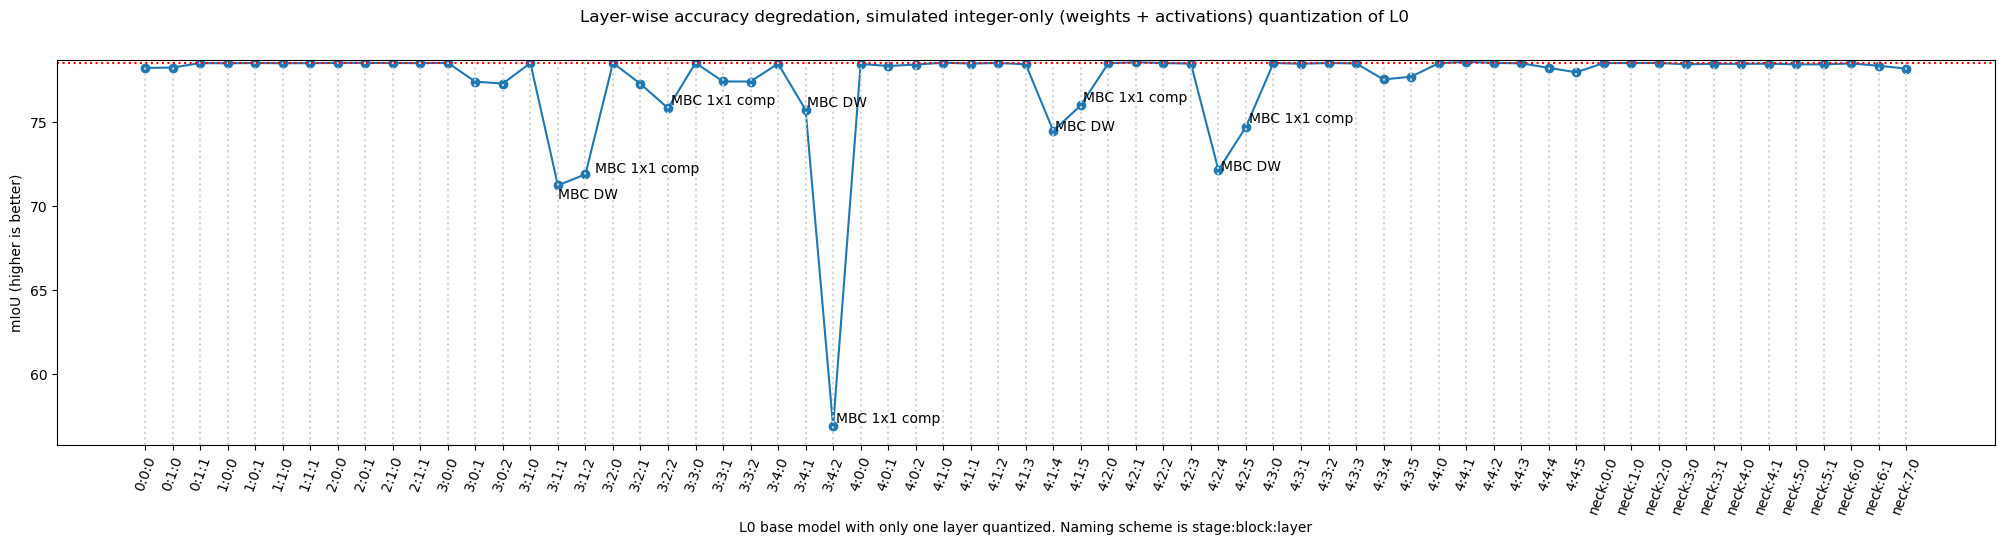
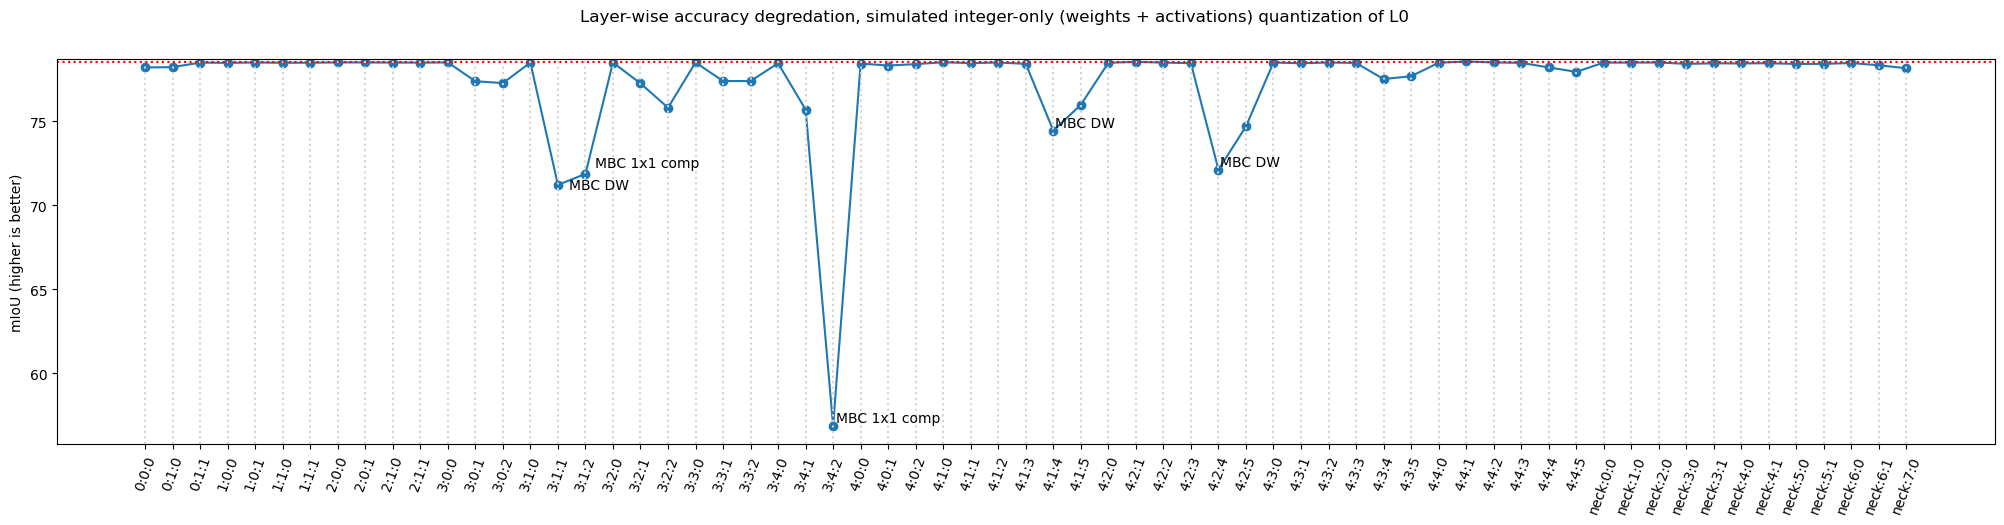
Built color-coded plots of layer-analysis

diff --git a/data_analytics_color.py b/data_analytics_color.py
@@ -4,9 +4,9 @@ import numpy as np
 import pickle
 import os
 import matplotlib.pyplot as plt
-from adjustText import adjust_text
-from configs.quant_backbones_zoo import REGISTERED_BACKBONE_DESCRIPTIONS_LARGE, REGISTERED_BACKBONE_DESCRIPTIONS_XL
-
+from configs.quant_backbones_zoo import REGISTERED_BACKBONE_DESCRIPTIONS_LARGE, REGISTERED_BACKBONE_DESCRIPTIONS_XL, REGISTERED_BACKBONE_COLORS
+import matplotlib.patches as mpatches
+import matplotlib.lines as mlines
 
 def read_pickle_to_dataframe(file_path, file_name) -> pd.DataFrame:
         file_name = os.path.basename(file_name)
@@ -32,63 +32,67 @@ def plot(df, title: str, xlabel: str, name: str, model: str = 'L0', prompt_type:
         description_dict = REGISTERED_BACKBONE_DESCRIPTIONS_XL
     else:
         description_dict = REGISTERED_BACKBONE_DESCRIPTIONS_LARGE
-
+    performance_measure = 'all'
     baseline_value=baselines_box[model]
-    zoom_lower_limit=77.1
+    upper_limit=85
+    zoom_lower_limit=76.9
     zoom_upper_limit = baseline_value + 0.2
-    #if zoom:
-    #    zoom_upper_limit = 80
-    #else:
-    #    zoom_upper_limit = baseline_value + 0.2
-    texts = []
-    
-    if prompt_type == 'box' or prompt_type == 'point':
-        performance_measure = 'all'
-    elif performance_measure == 'point_and_box':
-        raise KeyError("plot function that can plot both point and box in one call not yet implemented")
-    
-    fig, ax = plt.subplots(figsize=(25,5))
-    ax.plot(df['backbone_version'], df[performance_measure])
-    ax.scatter(df['backbone_version'], df[performance_measure])
+    fig, ax = plt.subplots(figsize=(25,4))
 
+    ax.plot(df['backbone_version'], df[performance_measure], color='slategrey')
 
-    if add_descriptions:
-        # Add description to each data point where 'all' score is substantially lower than baseline
-        for i, val in df.iterrows(): # index and row data
-            if zoom:
-                if val[performance_measure] < baseline_value-0.4: # L2: 0.3
-                    # using adjustText library to avoid overlapping text
-                    texts.append(ax.text(val['backbone_version'], val['adjusted_performance_measure'] - 0.1, f"{description_dict[val['backbone_version']]}"))
-            else:
-                if val[performance_measure] < baseline_value-4:
-                    #ax.text(val['backbone_version'], val[performance_measure], f"{description_dict[val['backbone_version']]}")
-                    texts.append(ax.text(val['backbone_version'], val[performance_measure] - 0.1, f"{description_dict[val['backbone_version']]}"))
-        adjust_text(texts)  # adjust text to minimize overlaps
+    for i, val in df.iterrows(): # index and row data
+        ax.scatter(
+                    val['backbone_version'], 
+                    val[performance_measure],
+                    color=REGISTERED_BACKBONE_COLORS.get(description_dict[val['backbone_version']], 'grey'),
+                    s=100)
+        # vertical lines at each x mark
+        ax.axvline(val['backbone_version'], color='lightgray', linestyle='dotted')
 
-        
-    # vertical lines at each x mark
-    for x in df['backbone_version']:
-        ax.axvline(x, color='lightgray', linestyle='dotted')
-    ax.axhline(baseline_value, color='red', linestyle='dotted')
-    #ax.text(0, baseline_value - 0.1 if zoom else baseline_value - 1, 'Baseline', va='top', ha="right")
+    ax.axhline(baseline_value, color='black', linestyle='dotted')
+    ax.axhline(zoom_lower_limit + 0.1, color='darkgreen', linestyle='dashdot')
 
-    if zoom: ax.set_xlabel(xlabel)
-    if not zoom: plt.suptitle(title)
-    ax.set_ylabel('mIoU (higher is better)')
+    if not zoom:
+        color_dict = {
+            'Attention' : 'darkturquoise',
+            'MBC' : 'orangered',
+            'Fused-MBC' : 'limegreen',
+            'ResBlock': 'fuchsia',
+            'Other': 'grey',
+        }
+
+        # Create a Line2D object for the black dotted line
+        baseline_line = mlines.Line2D([], [], color='black', linestyle='dotted', label='Baseline')
+        zoom_line = mlines.Line2D([], [], color='darkgreen', linestyle='dashdot', label='Zoom guideline')
+        legend_handles = [mpatches.Patch(color=color, label=label) for label, color in color_dict.items()]
+        legend_handles.append(baseline_line)
+        legend_handles.append(zoom_line)
+        ax.legend(handles=legend_handles, loc='lower right', fontsize=14)
+
+    if zoom: ax.set_xlabel(xlabel, fontsize=14)
+    if not zoom:
+        plt.suptitle(title, fontsize=14)
+
+    ax.tick_params(axis='x', labelsize=10) # to control size of x-ticks
+    ax.set_ylabel('mIoU (higher is better)', fontsize=14)
     if rotate:
-        plt.xticks(rotation=70)
+        plt.xticks(rotation=90)
     if zoom:
         ax.set_ylim([zoom_lower_limit,zoom_upper_limit])
-        save_name = f'./plots/graphs/{name}_zoom.png'
+        save_name = f'./plots/graphs/{name}_color_zoom.png'
     else:
         ax = plt.gca()  # get current axes
         ymin, _ = ax.get_ylim()  # get the current lower limit
-        ax.set_ylim(ymin, zoom_upper_limit)  # set the new upper limit
-        save_name = f'./plots/graphs/{name}.png'
+        ax.set_ylim(ymin, upper_limit)  # set the new upper limit
+        save_name = f'./plots/graphs/{name}_color.png'
+    
+    # get rid of the whitespace on either side
+    sorted_versions = sorted(df['backbone_version'])
+    ax.set_xlim(sorted_versions[0], sorted_versions[-1])
 
     plt.savefig(save_name, bbox_inches='tight')
     plt.close()
-
 
 if __name__ == "__main__":
     parser = argparse.ArgumentParser(description='From pickle file to plots')
@@ -136,8 +140,8 @@ if __name__ == "__main__":
     # plot normal
     plot(
         df_layer,
-        title=f'Layer-wise accuracy degredation, {quant_scheme} quantization of {model}',
-        xlabel=f'{model} base model with only one layer quantized. Naming scheme is stage:block:layer',
+        title=f'Layer-wise sensitivity of {model}',
+        xlabel=f'EfficientViT-SAM-{model}\'s image encoder with only one layer quantized using simulated quantization. Naming scheme is stage:block:layer.',
         name=f'{args.file_name}_layer',
         model = model,
         prompt_type=prompt_type,
@@ -149,8 +153,8 @@ if __name__ == "__main__":
     # plot zoomed
     plot(
         df_layer,
-        title=f'Layer-wise accuracy degredation, {quant_scheme} quantization of {model}',
-        xlabel=f'{model} base model with only one layer quantized. Naming scheme is stage:block:layer',
+        title=f'Layer-wise sensitivity of {model}',
+        xlabel=f'EfficientViT-SAM-{model}\'s image encoder with only one layer quantized using simulated quantization. Naming scheme is stage:block:layer.',
         name=f'{args.file_name}_layer',
         model = model,
         prompt_type=prompt_type,

diff --git a/configs/quant_backbones_zoo.py b/configs/quant_backbones_zoo.py
@@ -1,5 +1,5 @@
 # Backbone architectures for quantization experimentation
-#for key in REGISTERED_BACKBONE_VERSIONS.keys(): print(key)
+# for key in REGISTERED_BACKBONE_VERSIONS.keys(): print(key)
 
 
 '''
@@ -153,11 +153,33 @@ def create_backbone_versions(baseline_dict: dict):
 
 REGISTERED_BACKBONE_VERSIONS = create_backbone_versions(create_custom_backbones(create_backbone_baselines()))
 
+REGISTERED_BACKBONE_COLORS = {
+    'Other': 'grey',
+    'Conv 1x1,' : 'grey',
+    'Conv + upsample from 512' : 'grey',
+    'Conv + upsample from 256' : 'grey',
+    'Conv + upsample from 128' : 'grey',
+    #
+    'ResBlock': 'fuchsia',
+    #
+    'FMBC 3x3' : 'limegreen',
+    'FMBC 1x1' : 'limegreen',
+    'FMBC 3x3 OR Conv 1x1' : 'limegreen',
+    #
+    'MBC 1x1 exp' : 'orangered',
+    'MBC DW' : 'orangered',
+    'MBC 1x1 comp' : 'orangered',
+    #
+    'QKV' : 'darkturquoise',
+    'Attention' : 'darkturquoise',
+    'Proj' : 'darkturquoise',
+}
+
 REGISTERED_BACKBONE_DESCRIPTIONS_LARGE = {
     # Stage 0 - common to all large models
     '0:0:0': 'Conv',
     '0:1:0': 'ResBlock',
-    '0:1:1': 'Resblock',
+    '0:1:1': 'ResBlock',
     
     # Stage 1 - common to all large models
     '1:0:0': 'FMBC 3x3',
@@ -270,10 +292,10 @@ REGISTERED_BACKBONE_DESCRIPTIONS_LARGE = {
     'neck:5:0': 'FMBC 3x3',
     'neck:5:1': 'FMBC 1x1',
     'neck:6:0': 'FMBC 3x3',
-    'neck:6:1': 'FMBC 1x1',
+    'neck:6:1': 'FMBC 1x1 output',
 
     # L2
-    'neck:7:0': 'FMBC 3x3 OR Conv 1x1 in L0',
+    'neck:7:0': 'FMBC 3x3 OR Conv 1x1',
     'neck:7:1': 'FMBC 1x1',
     'neck:8:0': 'FMBC 3x3',
     'neck:8:1': 'FMBC 1x1',
@@ -283,7 +305,7 @@ REGISTERED_BACKBONE_DESCRIPTIONS_LARGE = {
     'neck:10:1': 'FMBC 1x1',
 
     # L3 
-    'neck:11:0': 'FMBC 3x3  OR Conv 1x1 in L1',
+    'neck:11:0': 'FMBC 3x3 OR Conv 1x1',
     'neck:11:1': 'FMBC 1x1',
     'neck:12:0': 'FMBC 3x3',
     'neck:12:1': 'FMBC 1x1',
@@ -292,7 +314,7 @@ REGISTERED_BACKBONE_DESCRIPTIONS_LARGE = {
     'neck:14:0': 'FMBC 3x3',
     'neck:14:1': 'FMBC 1x1',
     # common last layer
-    'neck:15:0': 'Conv 1x1,',
+    'neck:15:0': 'Conv 1x1',
     }
 
 REGISTERED_BACKBONE_DESCRIPTIONS_XL = {
@@ -300,7 +322,7 @@ REGISTERED_BACKBONE_DESCRIPTIONS_XL = {
     '0:0:0': 'Conv',
     # XL1
     '0:1:0': 'ResBlock',
-    '0:1:1': 'Resblock',
+    '0:1:1': 'ResBlock',
     
     # Stage 1
     '1:0:0': 'FMBC 3x3',
@@ -424,10 +446,10 @@ REGISTERED_BACKBONE_DESCRIPTIONS_XL = {
     'neck:5:0': 'FMBC 3x3',
     'neck:5:1': 'FMBC 1x1',
     'neck:6:0': 'FMBC 3x3',
-    'neck:6:1': 'FMBC 1x1',
+    'neck:6:1': 'FMBC 1x1 output',
 
     # XL1 has six extra FMBC
-    'neck:7:0': 'FMBC 3x3 OR Conv 1x1 in XL0',
+    'neck:7:0': 'FMBC 3x3 OR Conv 1x1',
     'neck:7:1': 'FMBC 1x1',
     'neck:8:0': 'FMBC 3x3',
     'neck:8:1': 'FMBC 1x1',

diff --git a/configs/__init__.py b/configs/__init__.py
@@ -1,1 +1,1 @@
-from .quant_backbones_zoo import REGISTERED_BACKBONE_VERSIONS, REGISTERED_BACKBONE_DESCRIPTIONS_LARGE, REGISTERED_BACKBONE_DESCRIPTIONS_XL
+from .quant_backbones_zoo import REGISTERED_BACKBONE_VERSIONS, REGISTERED_BACKBONE_DESCRIPTIONS_LARGE, REGISTERED_BACKBONE_DESCRIPTIONS_XL, REGISTERED_BACKBONE_COLORS
